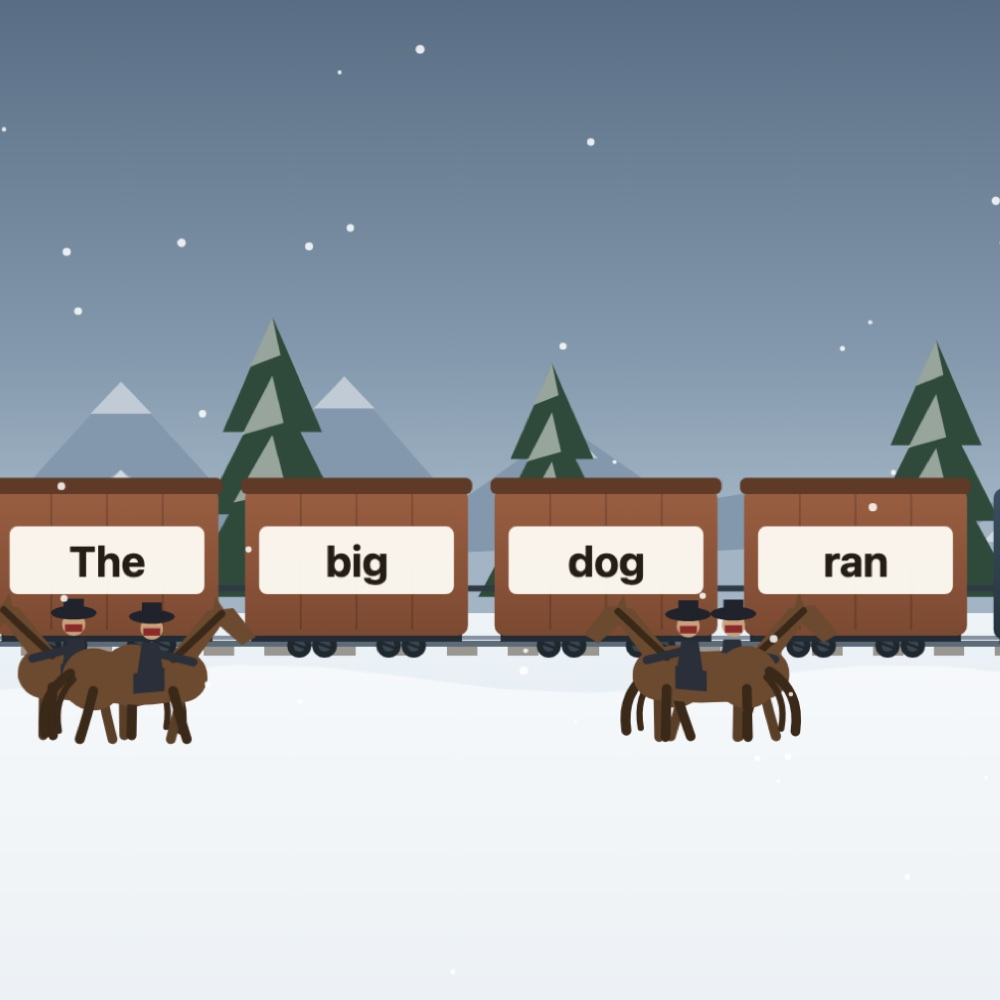
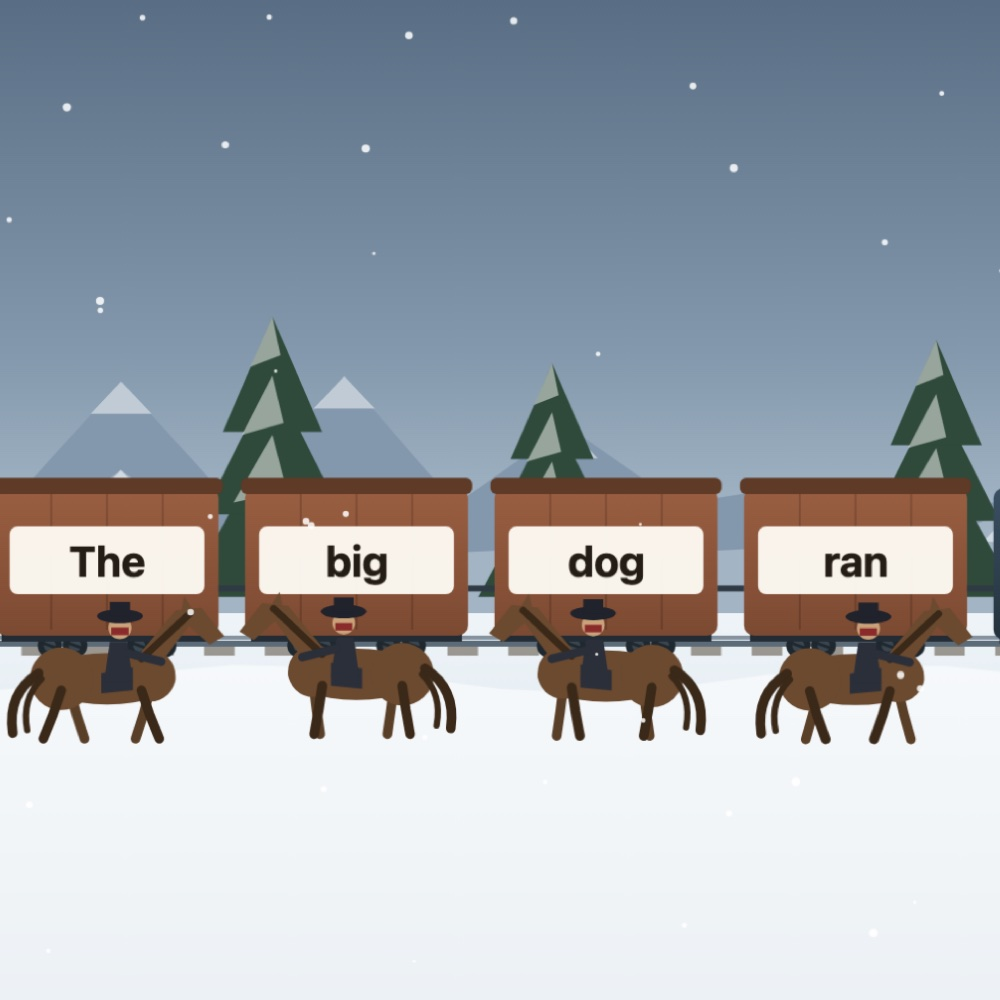
Grammar Express tile: stagger the bandits so they don't overlap
The ?shot capture now pins one bandit under each car (even spacing) so the
homepage tile shows them cleanly staggered instead of bunched together.

diff --git a/games/grammar-express/index.html b/games/grammar-express/index.html
@@ -907,7 +907,9 @@ HSGGod.watch(() => {
 
 // homepage-tile capture hook: start, guard a couple, and stage a bandit raid
 if (location.search.indexOf('shot') >= 0){
-  setTimeout(()=>{ startGame(); bannerClock = 0; }, 60);                        // fresh train, no guesses, no banner
+  setTimeout(()=>{ startGame(); bannerClock = 0;                               // fresh train, no guesses, no banner
+    bandits.forEach((b,i)=>{ b.roamAmp = 0; b.phase = i*1.9; });               // pin one under each car so they stay staggered for the tile
+  }, 60);
 }
 
 initWeather();